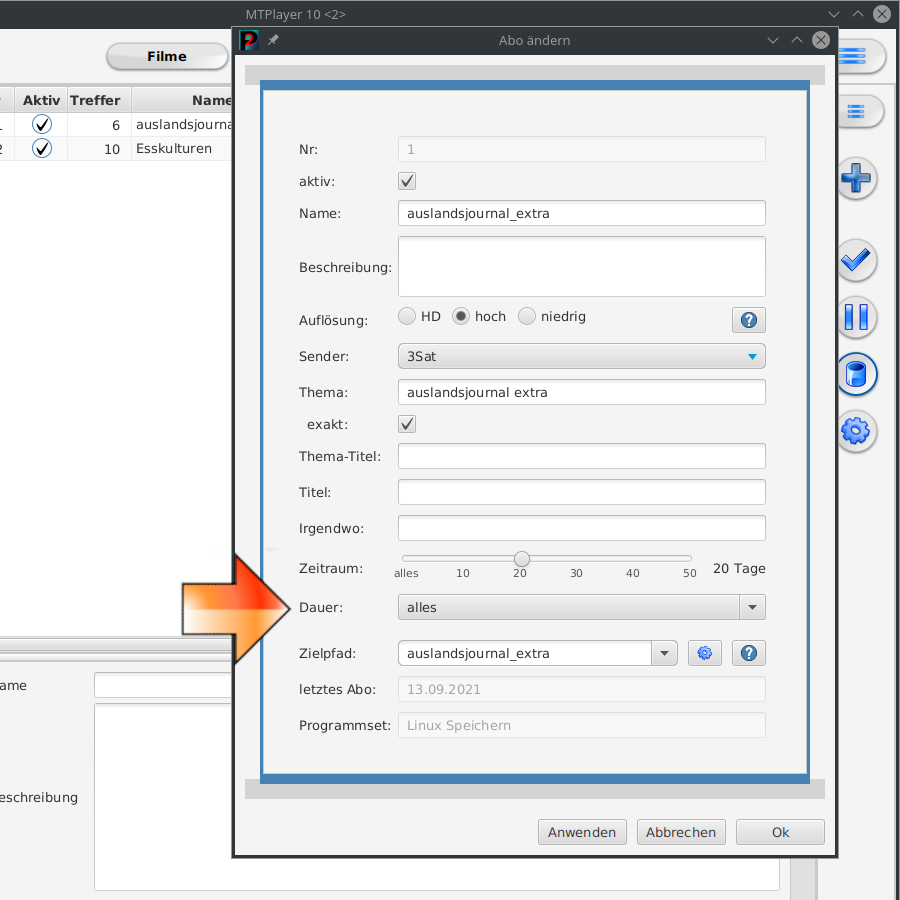
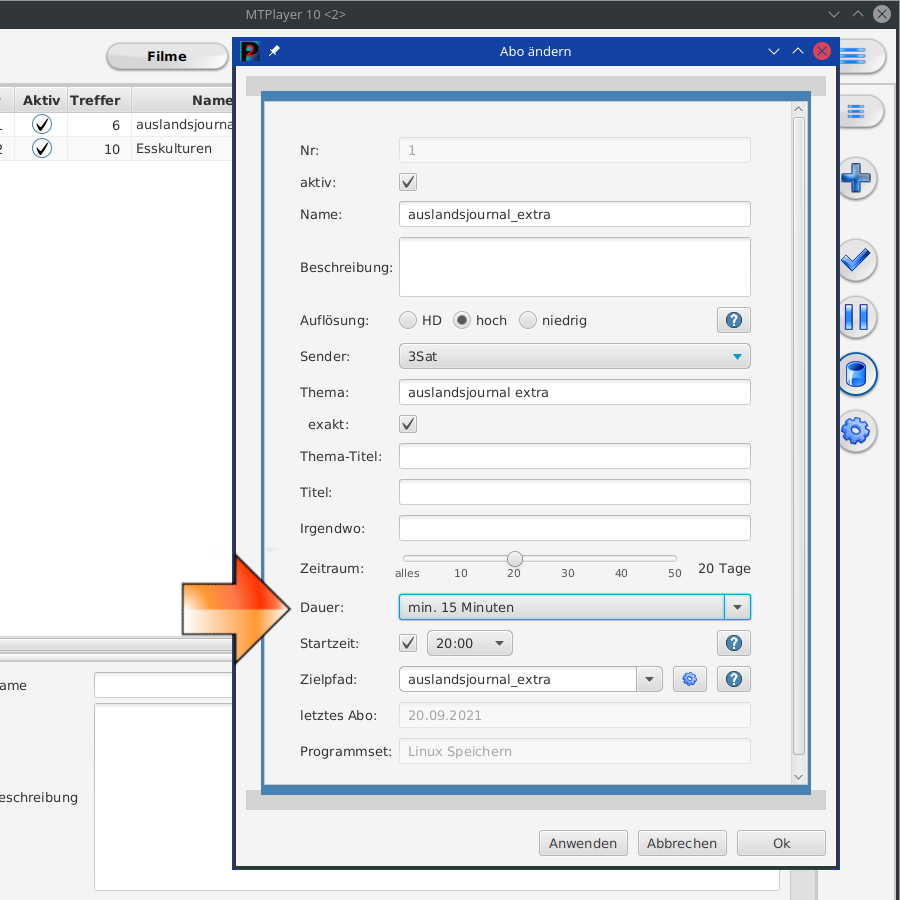
toolTips->tipOfDay

diff --git a/src/main/java/de/p2tools/mtplayer/controller/config/ProgTipOfDay.java b/src/main/java/de/p2tools/mtplayer/controller/config/ProgTipOfDay.java
@@ -22,6 +22,7 @@ import de.p2tools.p2Lib.guiTools.pTipOfDay.PTipOfDay;
 import de.p2tools.p2Lib.guiTools.pTipOfDay.PTipOfDayDialog;
 import de.p2tools.p2Lib.guiTools.pTipOfDay.PTipOfDayFactory;
 import de.p2tools.p2Lib.tools.date.PDateFactory;
+import de.p2tools.p2Lib.tools.log.PLog;
 
 import java.util.ArrayList;
 import java.util.Date;
@@ -29,8 +30,8 @@ import java.util.List;
 
 public class ProgTipOfDay {
 
-    private final String START = "                                      " + P2LibConst.LINE_SEPARATOR;
-    private final int listSize = 15;
+    private final String START = "                                                     " + P2LibConst.LINE_SEPARATOR;
+    private final int listSize = 17;
 
     public ProgTipOfDay() {
     }
@@ -38,6 +39,7 @@ public class ProgTipOfDay {
     public void showDialog(ProgData progData, boolean showAlways) {
         if (!showAlways && !ProgConfig.TIP_OF_DAY_SHOW.getBool()) {
             //dann wills der User nicht :(
+            PLog.sysLog("TipOfDay: Will der User nicht");
             return;
         }
 
@@ -52,6 +54,8 @@ public class ProgTipOfDay {
             addTips(pTipOfDayArrayList);
             new PTipOfDayDialog(progData.primaryStage, pTipOfDayArrayList,
                     ProgConfig.TIP_OF_DAY_WAS_SHOWN.getStringProperty(), ProgConfig.TIP_OF_DAY_SHOW.getBooleanProperty());
+        } else {
+            PLog.sysLog("TipOfDay: Heute schon gemacht oder keine neuen Tips");
         }
     }
 
@@ -74,7 +78,7 @@ public class ProgTipOfDay {
         pToolTipList.add(pToolTip);
 
         // private final int listSize = 2
-        text = START + "";
+        text = START;
         text += "Suche in der Mediensammlung:\n\n" +
                 "Ein Doppelklick auf einen\n" +
                 "Suchbegriff stellt diesen frei.\n\n" +
@@ -86,7 +90,7 @@ public class ProgTipOfDay {
         pToolTipList.add(pToolTip);
 
         // private final int listSize = 3
-        text = START + "";
+        text = START;
         text += "Über das Menü ist die\n" +
                 "Funktion zum Zurücksetzen\n" +
                 "von Programmeinstellungen\n" +
@@ -100,7 +104,7 @@ public class ProgTipOfDay {
         pToolTipList.add(pToolTip);
 
         // private final int listSize = 4
-        text = START + "";
+        text = START;
         text += "Über das Menü ist die\n" +
                 "Funktion zum Zurücksetzen\n" +
                 "von Programmeinstellungen\n" +
@@ -116,7 +120,7 @@ public class ProgTipOfDay {
         pToolTipList.add(pToolTip);
 
         // private final int listSize = 5
-        text = START + "";
+        text = START;
         text += "Im Download-Filter Panel können\n" +
                 "auch noch weitere Einstellungen\n" +
                 "vorgenommen werden:\n\n" +
@@ -144,7 +148,7 @@ public class ProgTipOfDay {
         pToolTipList.add(pToolTip);
 
         // private final int listSize = 7
-        text = START + "";
+        text = START;
         text += "In den Einstellungen des Abos\n" +
                 "kann auch die maximale Zeit,\n" +
                 "die zurück gesucht wird,\n" +
@@ -157,7 +161,7 @@ public class ProgTipOfDay {
         pToolTipList.add(pToolTip);
 
         // private final int listSize = 8
-        text = START + "";
+        text = START;
         text += "In den Einstellungen des Abos\n" +
                 "kann auch die Filmlänge\n" +
                 "eines Films (min, max)\n" +
@@ -170,7 +174,7 @@ public class ProgTipOfDay {
         pToolTipList.add(pToolTip);
 
         // private final int listSize = 9
-        text = START + "";
+        text = START;
         text += "Im Programm sind immer zwei\n" +
                 "Menüs sichtbar.\n\n" +
                 "Das obere enthält Menüpunkte,\n" +
@@ -184,7 +188,7 @@ public class ProgTipOfDay {
         pToolTipList.add(pToolTip);
 
         // private final int listSize = 10
-        text = START + "";
+        text = START;
         text += "In den Einstellungen\n" +
                 "(erreichbar über das Menü)\n" +
                 "kann das Systemtray\n" +
@@ -197,7 +201,7 @@ public class ProgTipOfDay {
         pToolTipList.add(pToolTip);
 
         // private final int listSize = 11
-        text = START + "";
+        text = START;
         text += "In den Einstellungen\n" +
                 "(erreichbar über das Menü)\n" +
                 "kann die Filmliste beim\n" +
@@ -217,7 +221,7 @@ public class ProgTipOfDay {
         pToolTipList.add(pToolTip);
 
         // private final int listSize = 12
-        text = START + "";
+        text = START;
         text += "In den Einstellungen\n" +
                 "(erreichbar über das Menü)\n" +
                 "wird der Downloadpfad\n" +
@@ -229,7 +233,7 @@ public class ProgTipOfDay {
         pToolTipList.add(pToolTip);
 
         // private final int listSize = 13
-        text = START + "";
+        text = START;
         text += "In den Einstellungen\n" +
                 "(erreichbar über das Menü)\n" +
                 "können für Downloads die ein\n" +
@@ -260,6 +264,33 @@ public class ProgTipOfDay {
                 "mit der Leertaste nach\n" +
                 "unten \"geblättert\" werden.";
         image = "/de/p2tools/mtplayer/res/toolTips/Leertaste.png";
+        pToolTip = new PTipOfDay(text, image);
+        pToolTipList.add(pToolTip);
+
+        // private final int listSize = 16
+        text = START;
+        text += "In den Einstellungen des Abos\n" +
+                "kann auch die Startzeit\n" +
+                "der Downloads aus diesem\n" +
+                "Abo vorgegeben werden.\n\n" +
+                "Downloads aus diesem Abo\n" +
+                "haben dann automatisch\n" +
+                "diese Startzeit.";
+        image = "/de/p2tools/mtplayer/res/toolTips/AboEinstellungen_Startzeit.png";
+        pToolTip = new PTipOfDay(text, image);
+        pToolTipList.add(pToolTip);
+
+        // private final int listSize = 17
+        text = START;
+        text += "In den Filtereinstellungen bei\n" +
+                "den Filmen kann eine Wartezeit\n" +
+                "vorgegeben werden.\n\n" +
+                "Diese wird dann bei der Suche\n" +
+                "in den Textfeldern abgewartet,\n" +
+                "bis die Suche beginnt.\n\n" +
+                "Es wird dann nicht bei jedem\n" +
+                "Buchstaben die Suche gestartet.";
+        image = "/de/p2tools/mtplayer/res/toolTips/GuiFilme_Wartezeit.png";
         pToolTip = new PTipOfDay(text, image);
         pToolTipList.add(pToolTip);
     }

diff --git a/src/main/java/de/p2tools/mtplayer/gui/FilmFilterEditDialog.java b/src/main/java/de/p2tools/mtplayer/gui/FilmFilterEditDialog.java
@@ -28,9 +28,8 @@ import javafx.geometry.Pos;
 import javafx.scene.control.Button;
 import javafx.scene.control.Label;
 import javafx.scene.control.Slider;
-import javafx.scene.layout.HBox;
-import javafx.scene.layout.Priority;
-import javafx.scene.layout.VBox;
+import javafx.scene.layout.*;
+import javafx.scene.paint.Color;
 
 
 public class FilmFilterEditDialog extends PDialogExtra {
@@ -38,7 +37,7 @@ public class FilmFilterEditDialog extends PDialogExtra {
     final ProgData progData;
 
     public FilmFilterEditDialog(ProgData progData) {
-        super(progData.primaryStage, null, "Filter ein- und ausschalten", true, true, DECO.NONE);
+        super(progData.primaryStage, null, "Filtereinstellungen", true, true, DECO.NONE);
         this.progData = progData;
 
         init(true);
@@ -48,7 +47,7 @@ public class FilmFilterEditDialog extends PDialogExtra {
     public void make() {
         init(getvBoxCont());
 
-        final Button btnHelp = PButton.helpButton(getStage(), "Filter ein- und ausschalten",
+        final Button btnHelp = PButton.helpButton(getStage(), "Filtereinstellungen",
                 HelpText.GUI_FILMS_EDIT_FILTER);
 
         Button btnOk = new Button("_Ok");
@@ -128,9 +127,26 @@ public class FilmFilterEditDialog extends PDialogExtra {
         tglNot.selectedProperty().bindBidirectional(progData.storedFilters.getActFilterSettings().notVisProperty());
         vbox.getChildren().add(tglNot);
 
-        Label lblValue = new Label();
-        Slider slider = new Slider();
+        //Wartezeit
+        VBox vBoxWait = new VBox(10);
+        Border b = new Border(new BorderStroke(Color.BLACK, Color.BLACK, Color.BLACK, Color.BLACK,
+                BorderStrokeStyle.SOLID, BorderStrokeStyle.NONE, BorderStrokeStyle.NONE, BorderStrokeStyle.NONE,
+                CornerRadii.EMPTY, new BorderWidths(3), new Insets(10, 0, 0, 0)));
+        vBoxWait.setBorder(b);
+        vBoxWait.setSpacing(10);
+        vBoxWait.setPadding(new Insets(10, 0, 0, 0));
 
+        Label lbl = new Label();
+        lbl.setMaxWidth(Double.MAX_VALUE);
+        Label lblValue = new Label();
+        lblValue.setMinWidth(Region.USE_COMPUTED_SIZE);
+//        Label lblTitle = new Label("Zeit bis die Suche in Textfeldern\n" +
+//                "ohne Eingabe startet:");
+        Label lblTitle = new Label("Zeit bis zum Start der Suche\n" +
+                "in Textfeldern ohne Eingabe:");
+        lblTitle.setMinWidth(0);
+
+        Slider slider = new Slider();
         slider.setMin(0);
         slider.setMax(ProgConst.SYSTEM_FILTER_MAX_WAIT_TIME);
         slider.setMinorTickCount(9);//dann 10 Teile, 1000/10=alle 100 kann eingeloggt werden :)
@@ -138,23 +154,23 @@ public class FilmFilterEditDialog extends PDialogExtra {
         slider.setMajorTickUnit(1000);
         slider.setShowTickLabels(true);
         slider.setSnapToTicks(true);
-
         slider.valueProperty().addListener((observable, oldValue, newValue) -> {
             ProgConfig.SYSTEM_FILTER_WAIT_TIME.setValue(setValue(slider, lblValue));
         });
-
         slider.setValue(ProgConfig.SYSTEM_FILTER_WAIT_TIME.getInt());
         setValue(slider, lblValue);
 
-        VBox vBoxLbl = new VBox(0);
-        vBoxLbl.getChildren().addAll(new Label("Wartezeit"), lblValue);
+        HBox hBoxLbl = new HBox(0);
+        hBoxLbl.setAlignment(Pos.CENTER_LEFT);
+        HBox.setHgrow(lbl, Priority.ALWAYS);
+        hBoxLbl.getChildren().addAll(lblTitle, lbl, lblValue);
 
-        HBox hBox = new HBox(10);
-        hBox.setPadding(new Insets(10, 0, 0, 0));
-        hBox.getChildren().addAll(vBoxLbl, slider);
-        hBox.setAlignment(Pos.CENTER_LEFT);
+        HBox hBoxSlider = new HBox(10);
+        hBoxSlider.getChildren().addAll(slider);
         HBox.setHgrow(slider, Priority.ALWAYS);
-        vbox.getChildren().add(hBox);
+
+        vBoxWait.getChildren().addAll(hBoxLbl, hBoxSlider);
+        vbox.getChildren().addAll(vBoxWait);
     }
 
     private int setValue(Slider slider, Label lblValue) {

diff --git a/src/main/java/de/p2tools/mtplayer/controller/config/ProgConfig.java b/src/main/java/de/p2tools/mtplayer/controller/config/ProgConfig.java
@@ -139,8 +139,8 @@ public class ProgConfig extends MLConfig {
     public static MLConfigs SYSTEM_DARK_THEME = addNewKey("system-dark-theme", Boolean.FALSE.toString());
     public static MLConfigs SYSTEM_THEME_CHANGED = addNewKey("system-theme-changed");
     public static MLConfigs SYSTEM_SSL_ALWAYS_TRUE = addNewKey("system-ssl-always-true");
-    public static MLConfigs TIP_OF_DAY_SHOW = addNewKey("tip-of-day-show");
-    public static MLConfigs TIP_OF_DAY_WAS_SHOWN = addNewKey("tip-of-day-was-shown");
+    public static MLConfigs TIP_OF_DAY_SHOW = addNewKey("tip-of-day-show", Boolean.TRUE.toString());//Tips anzeigen
+    public static MLConfigs TIP_OF_DAY_WAS_SHOWN = addNewKey("tip-of-day-was-shown");//bereits angezeigte Tips
     public static MLConfigs TIP_OF_DAY_DATE = addNewKey("tip-of-day-date"); //Datum des letzten Tips
     public static MLConfigs SYSTEM_FILTER_WAIT_TIME = addNewKey("system-filter-wait-time", "100");
 

diff --git a/src/main/java/de/p2tools/mtplayer/gui/tools/HelpText.java b/src/main/java/de/p2tools/mtplayer/gui/tools/HelpText.java
@@ -230,8 +230,8 @@ public class HelpText {
                     "\n" +
                     "Deaktivierte Filter werden beim Suchen der Filme nicht berücksichtigt, " +
                     "daher ist eine Suche mit weniger Filtern schneller.\n\n" +
-                    "Die \"Wartezeit\" ist die Zeit, die bei der Suche in Textfeldern während des Tippens " +
-                    "bis zum Start der Suche gewartet wird. Es wird also nicht bei \"jedem Buchstaben\" bereits " +
+                    "Die Wartezeit ist die Zeit, die bei der Suche in Textfeldern während des Tippens " +
+                    "bis zum Start der Suche gewartet wird. Es wird also nicht bei jedem Buchstaben bereits " +
                     "die Suche gestartet.";
 
     public static final String SETDATA_PRAEFIX =
